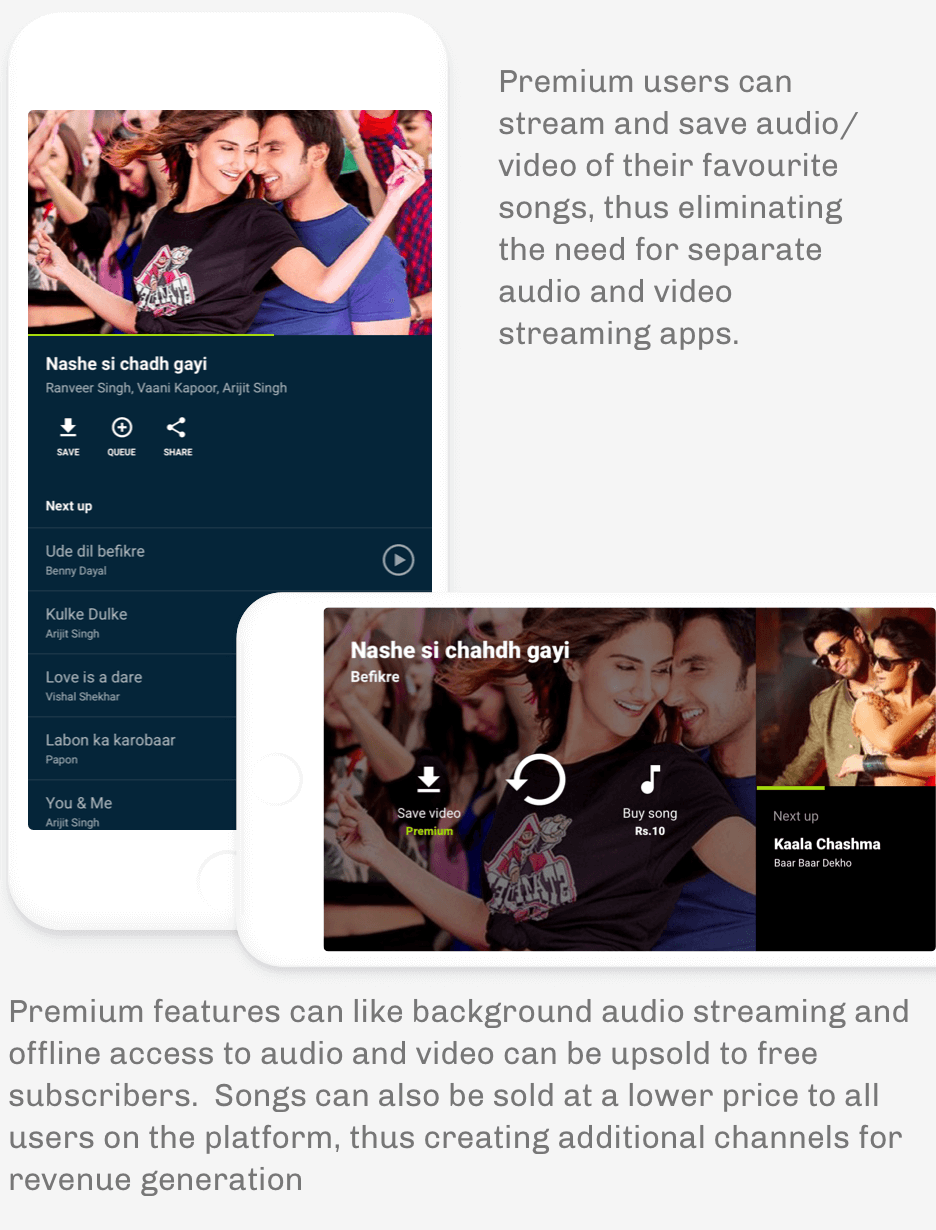
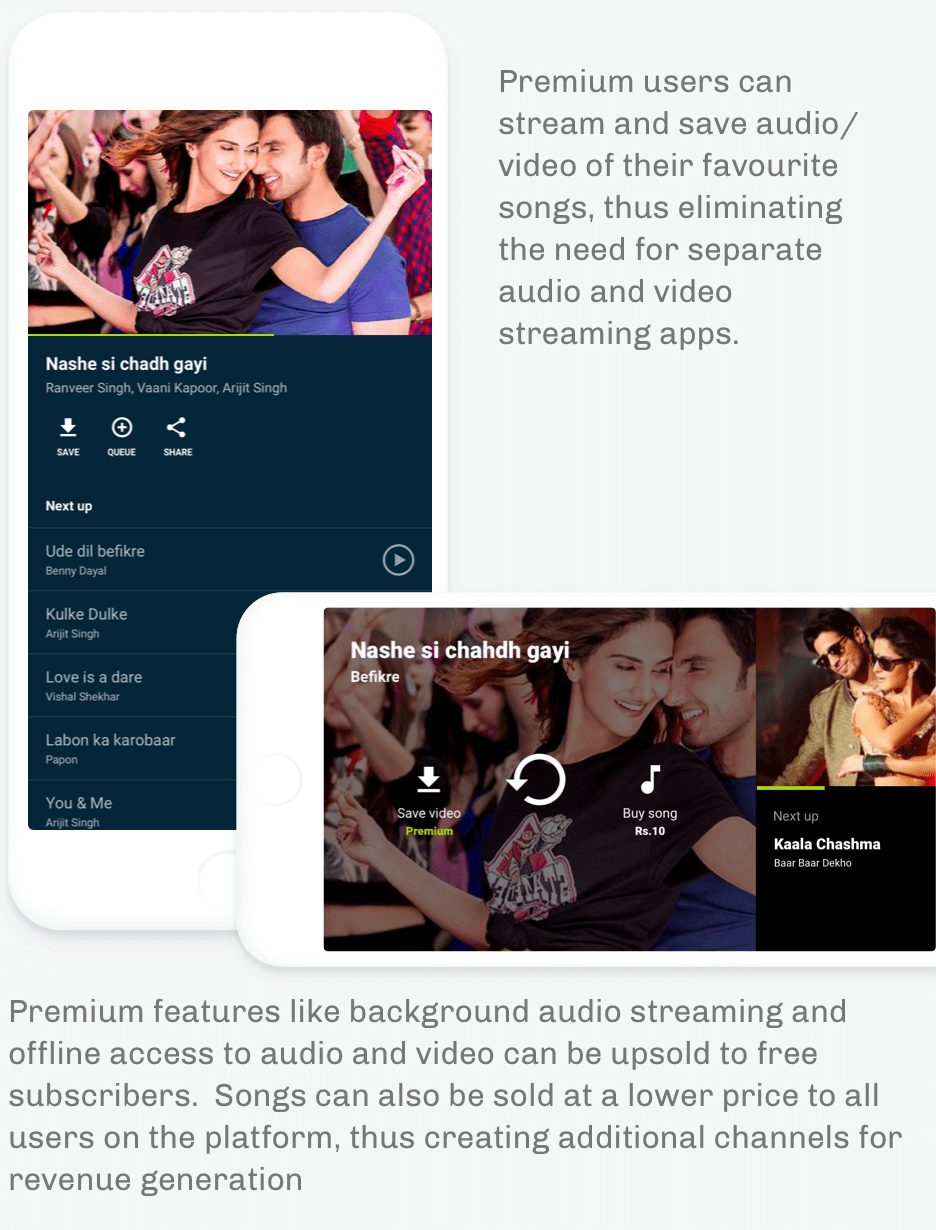
Updated grammar

Changed region(s): [[0.3098, 0.8033, 0.9915, 0.8341], [0.1549, 0.2163, 0.1859, 0.2472]]

diff --git a/clearfunds.html b/clearfunds.html
@@ -8,7 +8,7 @@
    ================================================== -->
    <meta charset="utf-8">
 	<title>Clearfunds-Avik Dey-UI/UX Designer</title>
-	<meta name="description" content="Enablabling a hassle-free community-living experience for a set of co-living residencies">  
+	<meta name="description" content="Bringing simplicity and clarity to investing">  
 	<meta name="author" content="">
 
    <!-- mobile specific metas
@@ -69,7 +69,7 @@
    <!-- content
    ================================================== -->
    <figure class='full-widthimg'>
-    <img src=images/clearfunds/cover.png alt=“abodecover“ width=100%>
+    <img src=images/clearfunds/cover.png alt=“clearfundscover“ width=100%>
   </figure>
 
    <section id="content-wrap" class="blog-single">
@@ -87,11 +87,11 @@
 							<li class="cat"><a href="#">Website, Tools</a></li>				
 						</ul>						
 
-						<p class="lead">Enablabling a hassle-free community-living experience for a set of co-living residencies</p> 
-						<p> <a href="https://stayabode.com/" target="_blank">StayAbode</a> is a bunch of fully serviced co-living spaces that mix small private spaces with communal areas to create vibrant, community driven residencies. For aspiring millenials, StayAbode offers a premium, modern way of urban living. 
+						<p class="lead">Bringing simplicity and clarity to investing</p> 
+						<p> <a href="https://clearfunds.com/" target="_blank">Clearfunds</a> is an online investment advisor that lets you buy direct mutual funds from any Mutual Fund Company in India at a low, fixed fee. The robo-advisory platform provides financial planning and investment recommendations via web and mobile to India’s mass affluent. 
 </p>
 <p>
-Each building is managed and maintained by a building manager. As the business gained traction, more and more residents moved in, making it increasingly difficult for managers to manually track and resolve daily issues. I worked with the StayAbode team to design their resident and manager apps. The apps not only faciliated communication between residents and building managers and but also helped the managers troubleshoot issues more efficiently.
+I was initially hired to design a feature to help users invest in diversified financial portfolios. However, during the course of development, we identified numerous issues with the website's UX and communication. The team then decided to engage me for a period of 6 more months for a complete website overhaul.
 </p>
 
 
@@ -102,129 +102,17 @@ Each building is managed and maintained by a building manager. As the business g
 Our building managers spent most of their time answering calls-resolving building issues, following up with service staff and reminding residents to pay rent. As they were always occupied, it was proving difficult for them to plan and organise their day efficiently. Using apps, many of the processes could be easily automated, saving valuable time for both residents and managers.</p>
 
 <p>Keeping both the resident and manager experiences in focus, we jotted down use cases that could be simplified or automated. While doing this exercise, we also wanted to encourage community living by facilitating interaction between the residents.</p>
-                        <div id="content-wrap" class="styles">
-
-    <div class="row narrow add-bottom text-center">
-
-   <div class="col-twelve tab-full">
-<img src=images/abode/flow.png alt=“appflow” align="center">
-</div>
-</div>
-</div>
-						<p>As is evident from the jorney flows, residents and managers were the two ends of the same communication channel. Requests by the residents transalted into actions for the managers and vice versa. Since the resident and manager apps were designed to be quite similar to each other, it saved the team a lot of development effort.</p>
-
-					<br>
+            
 <h4 style="text-align: center"> RESIDENT AND MANAGER APPS </h4>
                <p><img src=images/runnrapps/snippets.png alt=“Runnrappflow” alt=""></p>
-<div>
-<h2>Key features</h2>
-<p>Building on the TinyOwl apps, we included features like order status, live delivery tracking and order feedback to provide a comprehensive delivery experience. Some key ideas we worked on were:<br> 
-<br>
-<b>1. Recent restaurants</b><br> Users frequently order from the restaurants they’re familiar with and trust. 75% of the users order from the same 5 restaurant 85% of the time.<br> 
-<br>
-<b>2. Moods</b><br> Moods are sets of speciality restaurants grouped by cuisine. People who want to discover new food, usually find it easier to recognize a cuisine or a food type than choosing restaurants or applying filters. 
-<br> 
-<br>
-<b>3. Recommended items</b><br> The most selling items of a restaurant are shown upfront. This eased decision making and increased the click- through rate. 
-<br>
-<br>
-<b>4. Add-ons</b><br> Add ons are items that complement food items users add to their cart. With data collected over 2 years, we mapped items frequently ordered together. It saved users from the hassle of navigating through the menu. </p>
-</div>
-<div>
-<h3>Delivery focussed features</h3>
-<p><b>A. Order status</b><br> People usually tend to be  impatient when they're hungry and waiting for their food. Users should be able to track their order in real time till it is delivered. Order status needs to be upfront and easily accessible, as users generally check the same several times. <br>
-<br>
-<b>B. Delivery tracking</b><br> Users could track their order on a map. For more help, they could contact the delivery boy — enabling Runnr to deliver a fully transparent delivery experience. </p>
-<br>
-</div>
+
 
 <div>
 <h4 style="text-align: center; margin-top: 2em"> MOBILE APP </h4>
 
-			<div class="card-grid">
-  <div class="card-wrap">
-    <div class="card">
-      <img src=images/runnrapps/mob1.png alt=“mob1” width=100%>
-    
-    </div>
-  </div>
-  <div class="card-wrap">
-    <div class="card">
-      <img src=images/runnrapps/mob2.png alt=“mob2” width=100%>
-     
-    </div>
-  </div>
-  
-  <div class="card-wrap">
-    <div class="card">
-       <img src=images/runnrapps/mob3.png alt=“mob3” width=100%>
-      
-    </div>
-  </div>
-  
-
-<div class="card-wrap">
-    <div class="card">
-       <img src=images/runnrapps/mob4.png alt=“mob4” width=100%>
-      
-    </div>
-  </div>
+							  			   
 
 
-<div class="card-wrap">
-    <div class="card">
-       <img src=images/runnrapps/mob5.png alt=“mob5” width=100%>
-      
-    </div>
-  </div>
-
-
-<div class="card-wrap">
-    <div class="card">
-       <img src=images/runnrapps/mob8.png alt=“mob8” width=100%>
-      
-    </div>
-  </div>
-
-<div class="card-wrap">
-    <div class="card">
-       <img src=images/runnrapps/mob6.png alt=“mob6” width=100%>
-      
-    </div>
-  </div>
-
-<div class="card-wrap">
-    <div class="card">
-       <img src=images/runnrapps/mob7.png alt=“mob7” width=100%>
-      
-    </div>
-  </div>
-			
-
-		</div>					  			   
-
-<div>
-<h4 style="text-align: center; margin-top: 2em"> WEB ORDERING APP </h4>
-
-            <img src=images/runnrapps/web1.png style="margin-bottom:0";>
-
-            <p style="font-size: 14px; line-height: 20px">Using the massive real estate available on the desktop web, we provided added functionalities like filters, etc. Large images also created a huge difference in the appeal of the site.
-
-</p>
-
-<img src=images/runnrapps/web2.png style="margin-bottom:0";>
-
-            <p style="font-size: 14px; line-height: 20px">We designed our menus inspired from print menus available in restaurants to take advantage of patterns that users are already familiar with.
-
-</p>
-
-<img src=images/runnrapps/web3.png style="margin-bottom:0";>
-
-            <p style="font-size: 14px; line-height: 20px">Real time delivery tracking was available even on both web and mobile, making it a cross platform experience.
-
-</p>
-<br>
-         </div> 
 
          <div>
 <h2>Bonus Project: Runnr Meals</h2>
@@ -239,7 +127,7 @@ Our building managers spent most of their time answering calls-resolving buildin
                <br>
                Modular systems help create UI at a very fast pace. We also documented the guidelines helping us scale the app and design upcoming features. Guidelines evolve through the life-cycle of the product. They should be flexible enough to accomodate new patterns and enable innovation. Runnr was <a href="https://www.zomato.com/blog/introducing-the-zomato-runnr">acquired</a> by food-tech giant Zomato in September 2017.
 <br>
-Special thanks to my teammates <a href="https://www.linkedin.com/in/arpitdave2/" target="_blank">Arpit Dave</a> and <a href="https://www.linkedin.com/in/hemantpanchabhai/" target="_blank">Hemant Panchabhai</a> for helping me design the Runnr apps.  
+Special thanks the founders of Clearfunds<a href="https://www.linkedin.com/in/kuna1bajaj/" target="_blank">Kunal Bajaj</a>, <a href="https://www.linkedin.com/in/hemantpanchabhai/" target="_blank">Sarosh Irani</a> and <a href="">Jaideep Tibrewala</a> for helping me design the Runnr apps.  
 </p>
 
 

diff --git a/hotstar.html b/hotstar.html
@@ -80,7 +80,7 @@
 
 					<div class="primary-content">
 
-						<h1 class="page-title">Hotstar-Case study</h1>	
+						<h1 class="page-title">Hotstar</h1>	
 
 						<ul class="entry-meta">
 							<li class="date">Sep 2017</li>						
@@ -135,13 +135,13 @@ Fresh video content, for eg. new bollywood music enjoys an edge over other conte
 Fresh video content, for eg. new bollywood music enjoys an edge over other content in India. Partnering with production houses for exclusive music releases can be a strategy worth exploring. Other offerings can be: full concert streams, exclusive live performances and sponsored online productions (like MTV unplugged, Coke studio, etc.), weekly top 20 and visual radio on various themes.</p>
 
 <p><b>What may not work:</b><br>
-A major chunk of revenue goes to music labels and publishers. They also need a large scale to fund the operational costs. Moreover, people are accustomed to using Youtube as a source of free music videos. They may not switch to a different platform unless the content offering is unique.</p>
+A major chunk of revenue goes to music labels and publishers. They also need a large scale investment to fund the operational costs. Moreover, people are accustomed to using Youtube as a source of free music videos. They may not switch to a different platform unless the content offering is unique.</p>
 </div>
 
 <br>
 <h2>3. User research: Interviews and personas</h2>
 <p>
-It is important to define the target group and understand their behaviours. The following video demonstates a method to validate our hypotheses.</p>
+It is important to define the target group and understand their behaviours. The following video demonstrates a method to validate our hypotheses.</p>
 
 <div class="col-twelve">
 
@@ -151,7 +151,7 @@ It is important to define the target group and understand their behaviours. The 
             </div>
 
 <p><b>User personas:</b><br>
-Creating personas is a great way to learn about the spectrum of goals and needs of your users. A sizeable sample set of users needs to be interviewed and categorized to pin-point common needs and prioritize value propositions.
+Creating personas is a great way to learn about the spectrum of goals and needs of your users. A sizeable sample set of users need to be interviewed and categorized to pin-point common needs and prioritize value propositions.
 The actual process may take several weeks to complete. We have created 3 diverse personas for whom we would like to build a product, say a music video streaming service.</p>
 
 <p><img src=images/hotstar/persona1.png alt=“persona1” width="100%"></p>
@@ -180,7 +180,7 @@ our product/platform ________  (what are you offering)</b>
 <ul class="disc">
            <li>For people who download bollywood music audio/video, our product provides a one stop and low cost  solution to download/consume quality content on all devices.</li>
            <li>For music lovers who love live music productions, our platform provides great content that is not available elsewhere.</li>
-           <li>For concert goers who love to see live performances, our platform provides the opportunity to watch artists perform live all over in the world.</li>
+           <li>For concert goers who love to see live performances, our platform provides the opportunity to watch artists perform live all over the world.</li>
            <li>For users who pay for too many audio/video subscription services, the product offers both audio and video streaming at no additional cost.</li>
 
            <li>For explorers who struggle to find new music online, the platform helps them discover fresh music from a number of artists they may not have heard before.</li>
@@ -235,7 +235,7 @@ Testing a product and collecting user feedback is a fundamental part of the UX d
 <br>
 <b>1. Defining protocol</b>
 <br>
-Start with outlining the objectives of the. Have clear answers to questions like: “What shall we test?”, “What do we aim to find out from this test?”, “With whom will we test?” and “How will we test?”
+Start with outlining the objectives of the user test. Have clear answers to questions like: “What shall we test?”, “What do we aim to find out from this test?”, “With whom will we test?” and “How will we test?”
 Testing strategies may differ depending on what you are testing.
 </p>
 <p><b>2. Creating prototypes</b>
@@ -244,7 +244,7 @@ Prototypes are designs that give a sense of the final product. They are great fo
 
 <p><b>3. Conducting user tests</b><br>
 
-Before conducting user tests, understand the users you’re building the product for. Testing should include people from different backgrounds who fall into the target group. Sometime’s I record this exercise as it can be analyzed in the future.</p>
+Before conducting user tests, understand the users you’re building the product for. Testing should include people from different backgrounds who fall into the target group. Sometimes I record this exercise as it can be analyzed in the future.</p>
 
 
 <p><b>4. Analyzing and implementing feedback</b><br>
@@ -255,7 +255,7 @@ Analyze the tasks that the users have successfully completed and mark the areas 
 
             <p><h2>Conclusion</h2>
                
-As a UX designer, we need to be flexible with the processes employed. There’s no one-process fits all solution. Like our products, our processes also need to eveolve over time based on the available resources and product needs. The end goal however, remains the same-to create the best experience for our users.  
+As a UX designer, we need to be flexible with the processes employed. There’s no one-process fits all solution. Like our products, our processes also need to evolve over time based on the available resources and product needs. The end goal however, remains the same-to create the best experience for our users.  
 </p>
 
 <div class="pagenav group">

diff --git a/runnrapps.html b/runnrapps.html
@@ -200,7 +200,7 @@
 
 <img src=images/runnrapps/web2.png style="margin-bottom:0" width="100%">
 
-            <p style="font-size: 14px; line-height: 20px">We designed our menus inspired from print menus available in restaurants to take advantage of patterns that users are already familiar with.
+            <p style="font-size: 14px; line-height: 20px">We took our inspiration from the print menus available in restaurants - taking advantage of patterns that users are already familiar with.
 
 </p>
 
@@ -214,7 +214,7 @@
 
          <div>
 <h2>Bonus Project: Runnr Meals</h2>
-<p>We created Runnr meals — a corporate ordering platform aimed at providing pocket-friendly alternatives to insipid canteen food. Corporate employees were granted a monthly budget for their meals by their employers. As the service is pre-paid, checkout is super fast and the order through rate is extremely high. Users order from a limited, fresh menu everyday. Orders are placed in a specific time window. This enabled restautants to not only create additional demand, but also plan their operations better. We successfully reduced the number of delivery touchpoints by clubbing deliveries — greatly reducing logistic costs.
+<p>We created Runnr meals — a corporate ordering platform aimed at providing pocket-friendly alternatives to insipid canteen food. Corporate employees were granted a monthly budget for their meals by their employers. As the service was pre-paid, checkout was super fast and the order through rate extremely high. Users order from a limited, fresh menu everyday. Orders were to be placed in a specific time window. This enabled restautants to not only create additional demand, but also plan their operations better. We successfully reduced the number of delivery touchpoints by clubbing deliveries — greatly reducing logistic costs.
 
 </p>
 
@@ -223,7 +223,7 @@
             <p>
                <br>
                <br>
-               Modular systems help create UI at a very fast pace. We also documented the guidelines helping us scale the app and design upcoming features. Guidelines evolve through the life-cycle of the product. They should be flexible enough to accomodate new patterns and enable innovation. Runnr was <a href="https://www.zomato.com/blog/introducing-the-zomato-runnr">acquired</a> by food-tech giant Zomato in September 2017.
+               Me and my team employed modular systems help create UI at a very fast pace. We also documented the guidelines helping us scale the app and design upcoming features. Guidelines will always evolve through the life-cycle of a product. They should be flexible enough to accomodate new patterns and enable innovation. Runnr was <a href="https://www.zomato.com/blog/introducing-the-zomato-runnr">acquired</a> by food-tech giant Zomato in September 2017.
 <br>
 Special thanks to my teammates <a href="https://www.linkedin.com/in/arpitdave2/" target="_blank">Arpit Dave</a> and <a href="https://www.linkedin.com/in/hemantpanchabhai/" target="_blank">Hemant Panchabhai</a> for helping me design the Runnr apps.  
 </p>

diff --git a/index.html b/index.html
@@ -8,7 +8,7 @@
    ================================================== -->
    <meta charset="utf-8">
    <title>Avik Dey-UI/UX Designer-Portfolio</title>
-   <meta name="description" content="I am a UI/UX Designer from Mumbai with 6 years of experience. I've worked in multiple sectors like E-commerce, Finance, Travel, Hospitality and Healthcare. I am currently available for freelance and full-time opportunities.
+   <meta name="description" content="I am a UI/UX Designer and Product Managerfrom Mumbai with 6 years of experience. I've worked in multiple sectors like E-commerce, Finance, Travel, Hospitality and Healthcare. I am currently available for freelance and full-time opportunities.
    <meta name="author" content="Avik Dey">
 
    <!-- mobile specific metas
@@ -82,7 +82,7 @@
                      <div class="about">
                         <h2><a href="about.html">Avik Dey</a></h2>
                      
-                        <p style="font-size: 15px">I am a UI/UX Designer based in Mumbai, India with 6 years of experience. I've had the opportunity of solving a diverse range of problems for a wide range of businesses. I am currently available for freelance and full-time work.</p>
+                        <p style="font-size: 15px">I am a UI/UX Designer and Product Manager based in Mumbai, India with more than 6 years of experience. I've solved a diverse range of UX problems for a wide range of businesses. As the next step of my career, I am looking forward to work on a large-scale global product. I am currently available for freelance and full-time work.</p>
                      </div>
             </div>
          </div>
@@ -144,7 +144,7 @@
                         </span>        
                      </div>
 
-                     <h1 class="entry-title"><a href="hotstar.html"> Hotstar-Case study</a></h1>
+                     <h1 class="entry-title"><a href="hotstar.html"> Hotstar</a></h1>
                      
                   </div>
             
